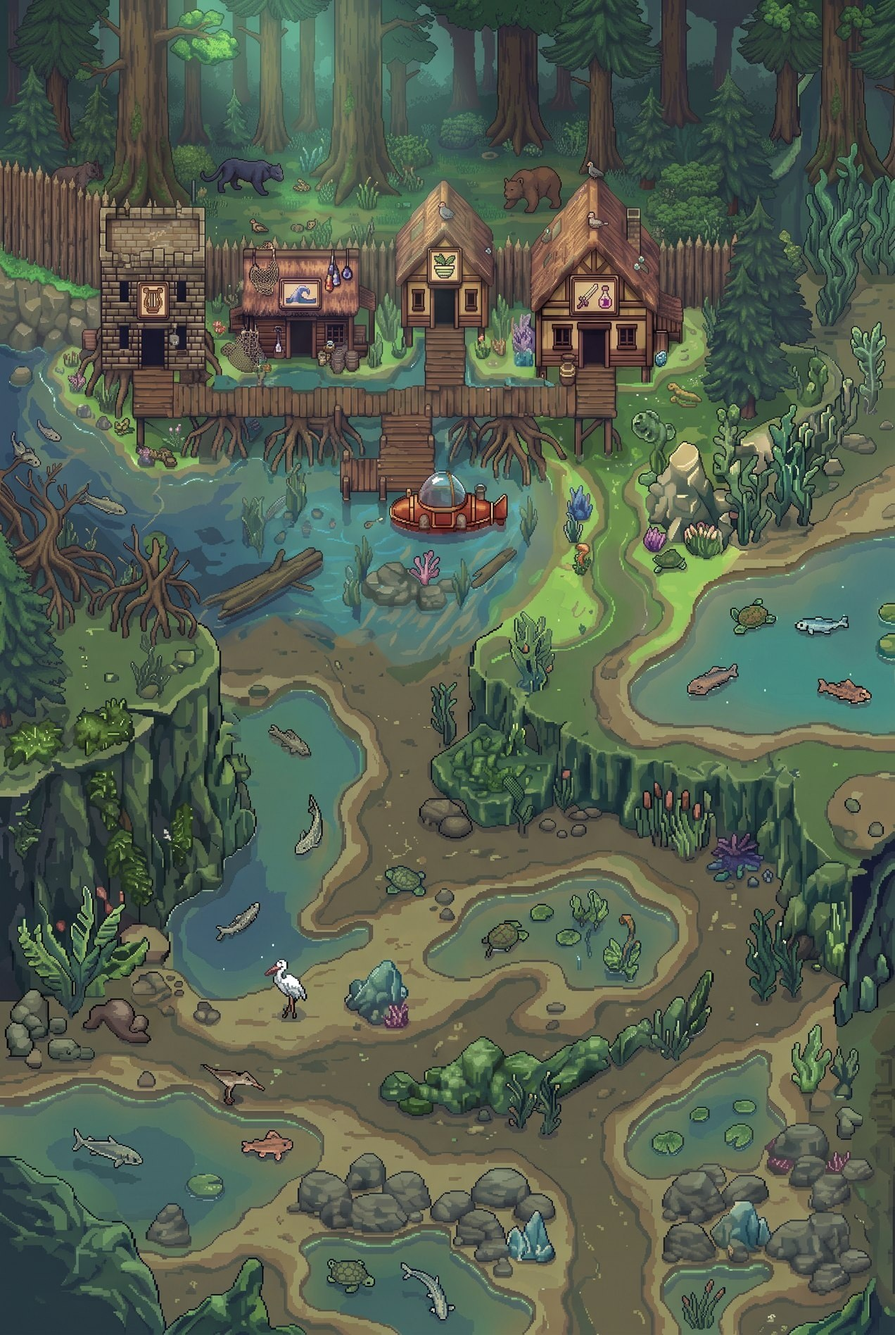
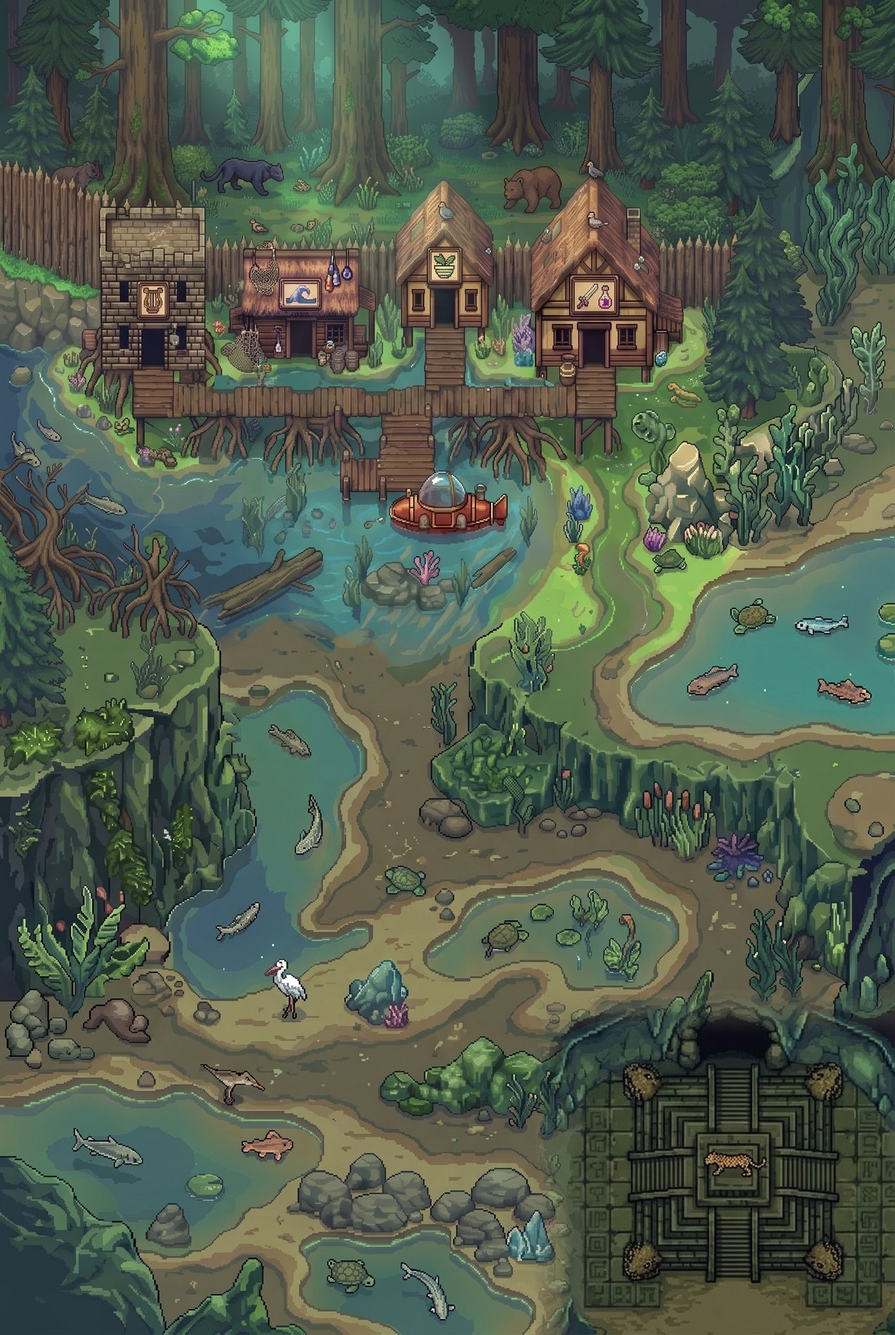
Tidesong: bring back the Jaguar's Den in Fangshore Coast

Changed region(s): [[0.5825, 0.7468, 1.0, 1.0]]

diff --git a/arcade/js/tidesong/zones.js b/arcade/js/tidesong/zones.js
@@ -81,7 +81,7 @@ export const zones = {
   fangshore: {
     dark: 0, levels: [30, 40], name: "Fangshore Coast", requires: "pressurePearl", tier: 9, water: "#2b4a3a",
     image: { h: 2528, scale: 0.75, w: 1696 },
-    lair: { name: "The Jaguar's Den", x: 1530, y: 1860, mapX: 1190, mapY: 77 },
+    lair: { name: "The Jaguar's Den", x: 1393, y: 2200, mapX: 1190, mapY: 77 },
     map: [850, 0, 1264, 210],
     town: town("grizzlyWatch", "Grizzly Watch", [
       [189, 391, 389, 296, 700], [437, 469, 707, 570, 678],
